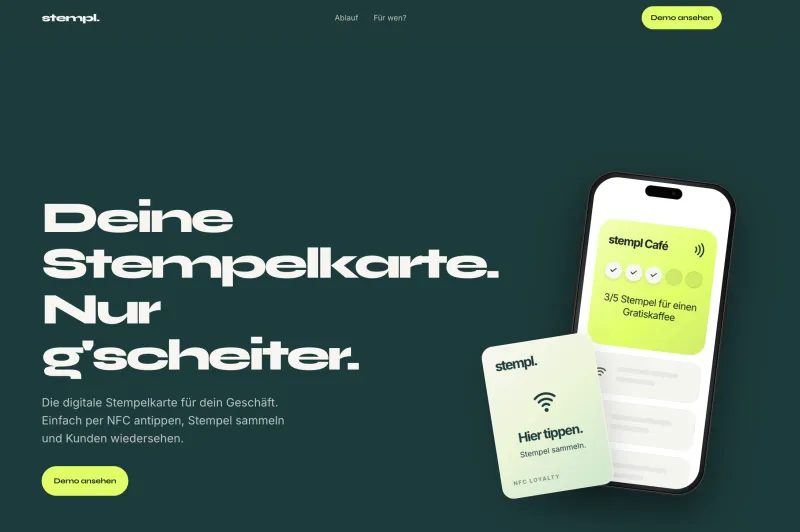
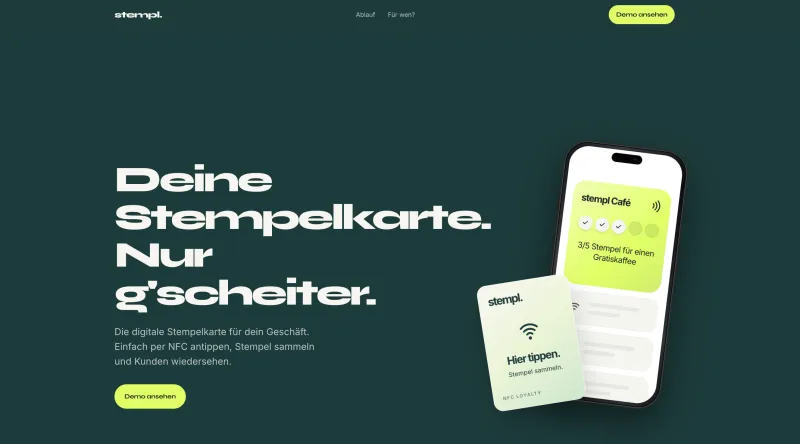
Update stempl project image

diff --git a/en/index.html b/en/index.html
@@ -32,7 +32,7 @@
   <link rel="icon" href="../icons/favicon.svg?v=20260917customg" type="image/svg+xml" />
   <link rel="preload" href="../fonts/instrument-sans-latin.woff2" as="font" type="font/woff2" crossorigin>
   <link rel="preload" href="../fonts/cabinet-grotesk-medium.woff2" as="font" type="font/woff2" crossorigin>
-  <link rel="stylesheet" href="../style.css?v=20261107stempl" />
+  <link rel="stylesheet" href="../style.css?v=20261107stempl2" />
 
   <!-- Structured Data (SEO) -->
   <script type="application/ld+json">
@@ -134,7 +134,7 @@
 
 
           <article class="card project project--stempl">
-            <div class="thumb"><img src="../images/stempl-800.webp" srcset="../images/stempl-800.webp 800w, ../images/stempl.webp 1600w" sizes="(max-width: 600px) calc(100vw - 48px), 832px" alt="stempl. – digital NFC loyalty card on a smartphone and card" loading="lazy" width="1600" height="1064"></div>
+            <div class="thumb"><img src="../images/stempl-800.webp" srcset="../images/stempl-800.webp 800w, ../images/stempl.webp 1600w" sizes="(max-width: 600px) calc(100vw - 48px), 832px" alt="stempl. – digital NFC loyalty card on a smartphone and card" loading="lazy" width="1600" height="887"></div>
             <div><span class="tag">Product prototype</span><span class="tag">NFC</span><span class="tag">Next.js</span></div>
             <h3>stempl.</h3><p class="project-scope"><span>Scope</span> Landing page · loyalty-card demo · configurator · merchant dashboard<br><span>Stack</span> Next.js · React · TypeScript</p>
             <p>A product prototype for digital loyalty cards used by local businesses – from the NFC tap to the interactive card and merchant interface.</p>

diff --git a/index.html b/index.html
@@ -30,7 +30,7 @@
   <link rel="icon" href="icons/favicon.svg?v=20260917customg" type="image/svg+xml" />
   <link rel="preload" href="fonts/instrument-sans-latin.woff2" as="font" type="font/woff2" crossorigin>
   <link rel="preload" href="fonts/cabinet-grotesk-medium.woff2" as="font" type="font/woff2" crossorigin>
-  <link rel="stylesheet" href="style.css?v=20261107stempl" />
+  <link rel="stylesheet" href="style.css?v=20261107stempl2" />
 
   <!-- Strukturierte Daten (SEO) -->
   <script type="application/ld+json">
@@ -143,7 +143,7 @@
 
 
           <article class="card project project--stempl">
-            <div class="thumb"><img src="images/stempl-800.webp" srcset="images/stempl-800.webp 800w, images/stempl.webp 1600w" sizes="(max-width: 600px) calc(100vw - 48px), 832px" alt="stempl. – digitale NFC-Stempelkarte auf Smartphone und Karte" loading="lazy" width="1600" height="1064"></div>
+            <div class="thumb"><img src="images/stempl-800.webp" srcset="images/stempl-800.webp 800w, images/stempl.webp 1600w" sizes="(max-width: 600px) calc(100vw - 48px), 832px" alt="stempl. – digitale NFC-Stempelkarte auf Smartphone und Karte" loading="lazy" width="1600" height="887"></div>
             <div><span class="tag">Produktprototyp</span><span class="tag">NFC</span><span class="tag">Next.js</span></div>
             <h3>stempl.</h3><p class="project-scope"><span>Umfang</span> Landingpage · Stempelkarten-Demo · Konfigurator · Händler-Dashboard<br><span>Technik</span> Next.js · React · TypeScript</p>
             <p>Produktprototyp für digitale Stempelkarten und Treueprogramme lokaler Betriebe – vom NFC-Tap bis zur interaktiven Karte und Verwaltungsoberfläche.</p>

diff --git a/style.css b/style.css
@@ -1195,6 +1195,7 @@ summary { overflow-wrap:anywhere; }
 /* Project colors stay consistent across languages and sorting. */
 .project--carpriceai { --project-color:#dce6fb; }
 .project--stempl { --project-color:#d9ff43; }
+.project--stempl .thumb img { object-fit:cover; object-position:center; background:#103c3b; }
 .project--fontwise { --project-color:#eaf2bc; }
 .project--gedichte { --project-color:#f0dfca; }
 .project--medics { --project-color:#cfece7; }
